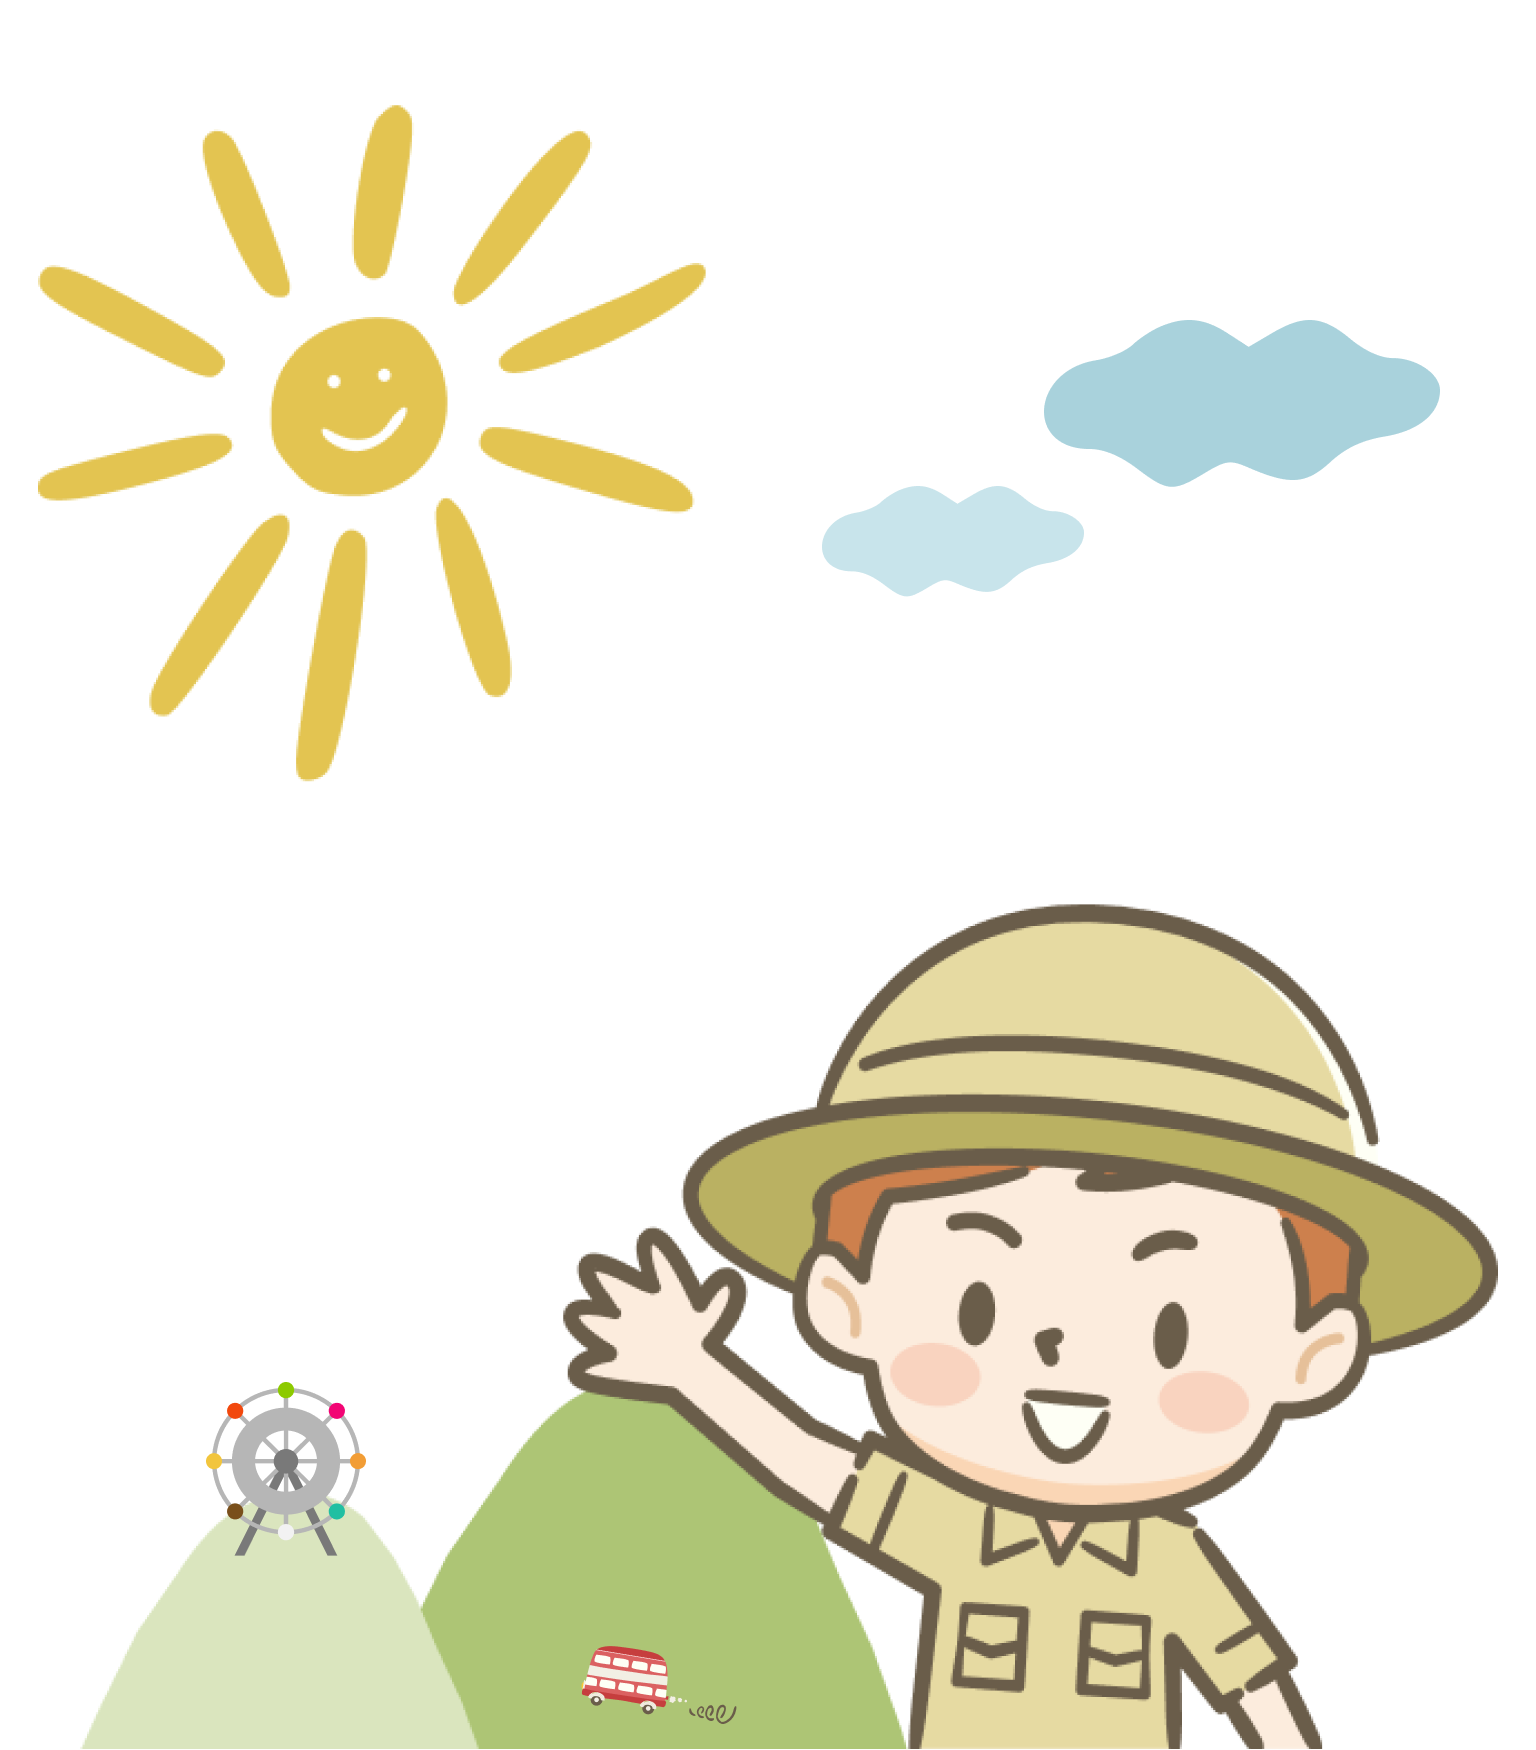
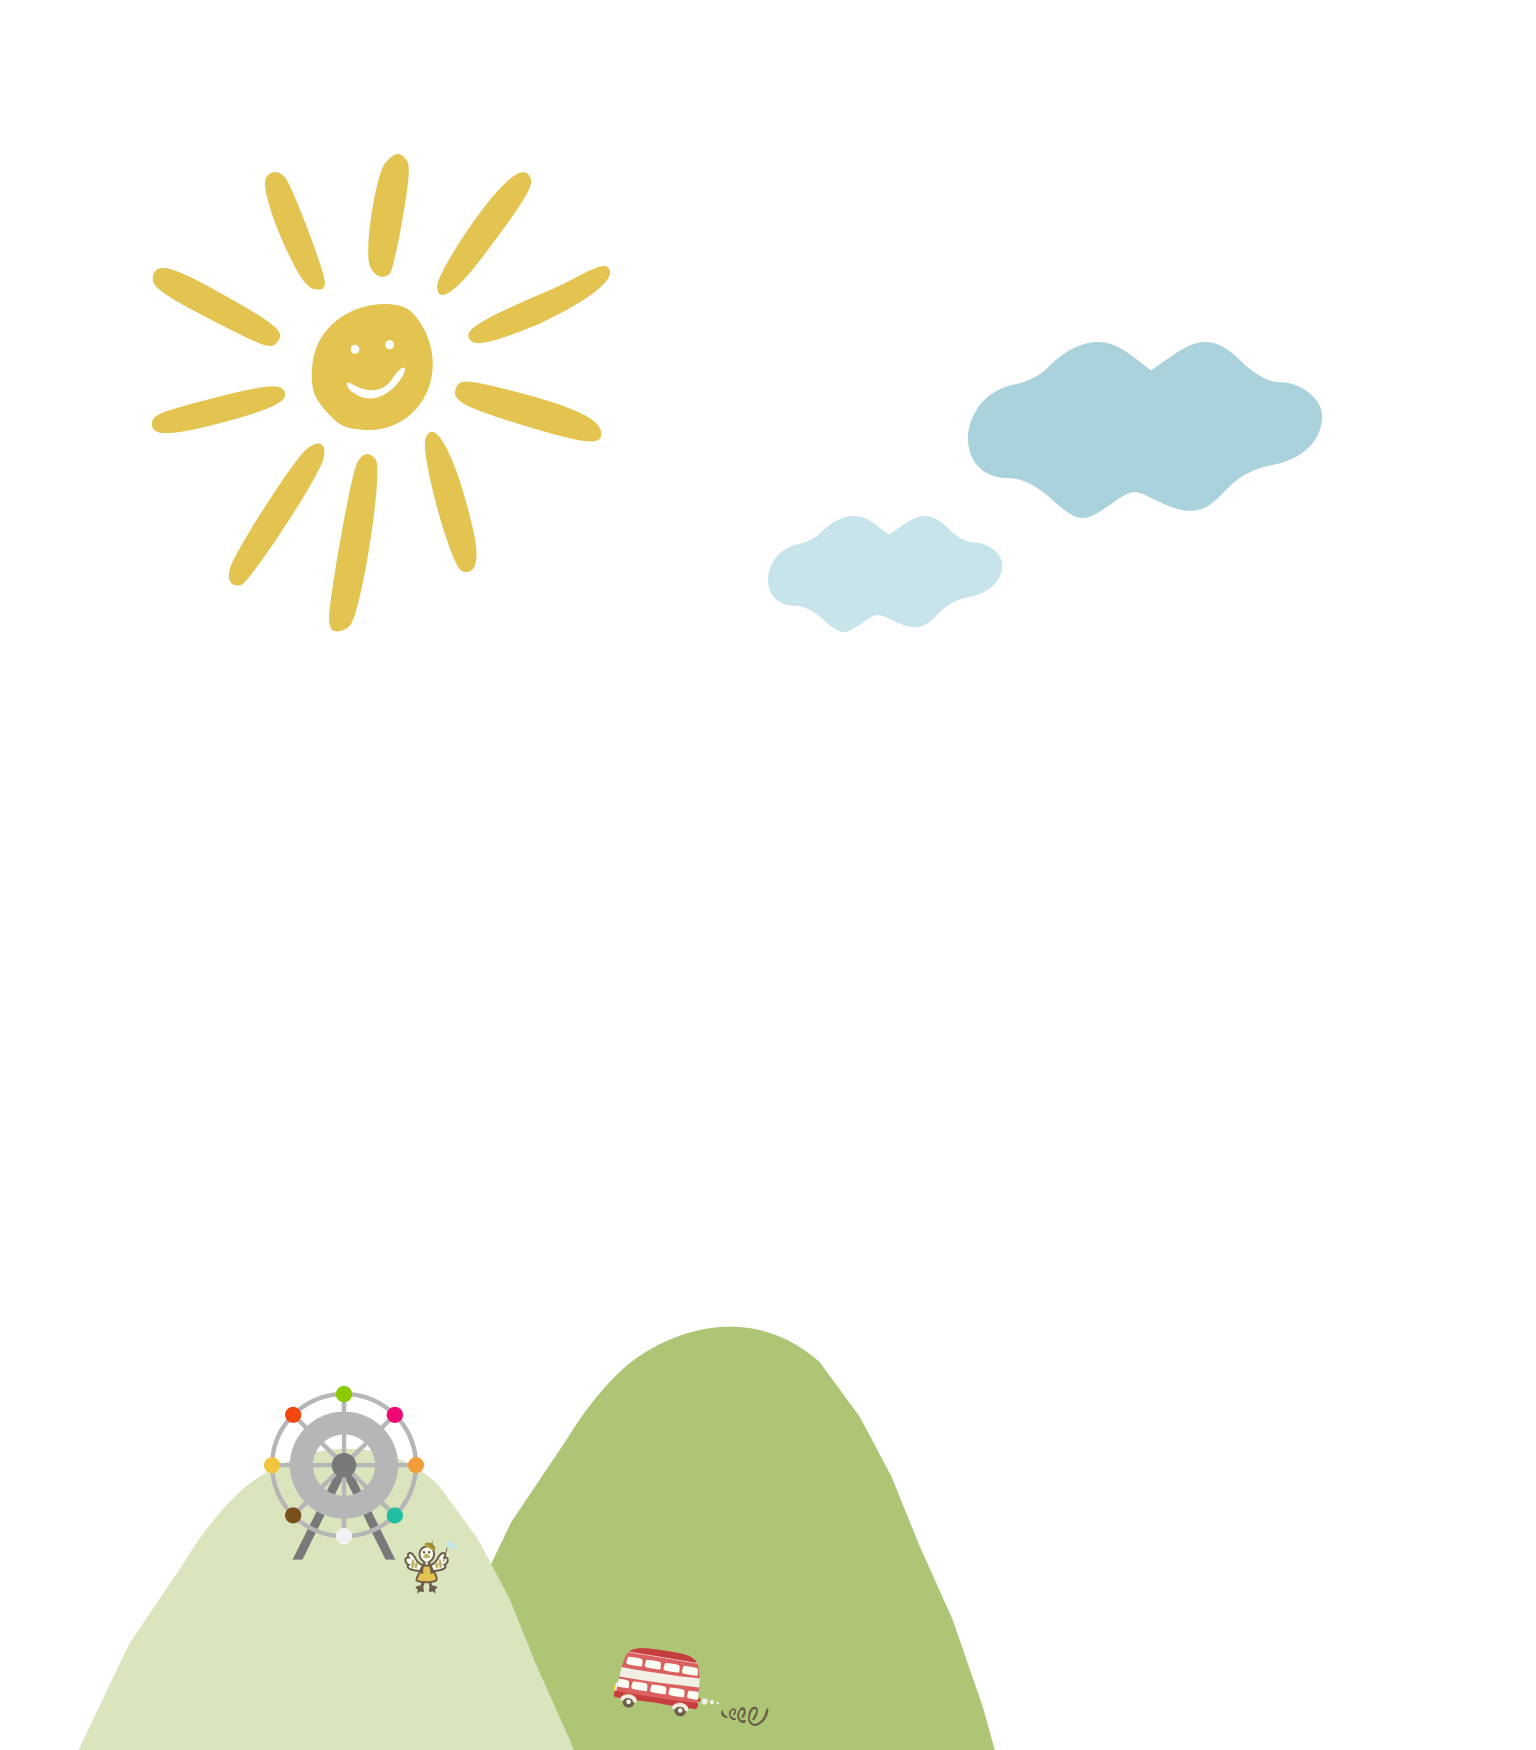
票券微調，加一點動畫

Changed region(s): [[0.125, 0.4937, 1.0, 1.0], [0.0312, 0.0617, 0.4688, 0.4629], [0.5, 0.1851, 0.9375, 0.3703]]

diff --git a/src/views/TicketView.vue b/src/views/TicketView.vue
@@ -1,9 +1,10 @@
 <!-- 景點票券頁面 -->
 <template>
-    <div class="ticket">
+    <div class="ticket_page">
         <div class="ticket_banner">
             <img class="banner_xl" :src="require('@/assets/img/ticket_banner.png')" alt="banner" />
             <img class="banner_sm" :src="require('@/assets/img/ticket_banner_sm.png')" alt="banner" />
+            <img class="banner_man" :src="require('@/assets/img/layout/plan_q1-6.png')" alt="banner" />
             <h1>{{ banner.title }}</h1>
         </div>
         <Searchbar :Filter="updateDisplay" :tagTexts="tagFilter" />
@@ -31,21 +32,22 @@
         </div>
 
         <!-- 購物車清單 -->
-        <!-- <router-link to="/cart"></router-link> -->
         <div class="cart">
             <font-awesome-icon icon="fa-solid fa-cart-shopping" class="cart_toggle" @click="toggleCart" />
             <div class="numTag">{{ itemList.length }}</div>
         </div>
+        <!-- 付款明細 -->
         <div class="cart_sidebar" v-show="togglePage">
             <h2>付款明細</h2>
-            <!-- 購買內容 -->
+            <!-- 購物明細 -->
             <div class="item">
                 <div class="details" v-for="(item, index) in itemList" :key="item.id">
+                    <!-- 標題&垃圾桶 -->
                     <div class="title">
                         {{ item.Name }}
                         <font-awesome-icon icon="fa-solid fa-trash-can" class="cancel" @click="cancel(index)" title="刪除" />
                     </div>
-
+                    <!-- 成人票券項目 -->
                     <div class="ticket_adult">
                         <label for="count_adult">
                             <p class="name">全票&nbsp;</p>
@@ -61,6 +63,7 @@
                             </option>
                         </select>
                     </div>
+                    <!-- 優惠票券項目 -->
                     <div class="ticket_ex">
                         <label for="count_ex">
                             <p class="name">優待票&nbsp;</p>
@@ -74,7 +77,7 @@
                             </option>
                         </select>
                     </div>
-
+                    <!-- 小計 -->
                     <div class="amount">
                         小計&nbsp;
                         <span>NT$ {{ item.subtotal }}</span>
@@ -84,11 +87,11 @@
             <!-- 票券總計 -->
             <div class="total">
                 <p>({{ itemList.length }}項票券) 總計</p>
-                <p>
-                    NT$&nbsp;
+                <p> NT$&nbsp;
                     <span class="total-price"> {{ totalPrice }} </span>
                     元
                 </p>
+                <!-- 結帳按鈕，跳轉至購物車 -->
                 <router-link to="/cart"><button class="btn">結帳</button></router-link>
             </div>
             <div class="close" @click="toggleCart">close</div>
@@ -211,8 +214,6 @@ export default {
         this.TotalPrice();
     },
 };
-
-
 </script>
 <style lang="scss">
 @import "@/assets/scss/baseAndMixin.scss";

diff --git a/src/views/TicketInfo.vue b/src/views/TicketInfo.vue
@@ -1,11 +1,13 @@
 <!-- 單一票券的內容區塊 -->
 <template>
     <div class="ticket_info_page">
+        <!-- 票券造型呈現，768以下無造型 -->
         <TicketSingleCard :ticketPhoto="img" :ticketTitle="Name" :ticketLocation="location" :ticketTags="tag"
             :ticketDetails="ticket_details" :showAddr="true" :ticketAddr="ticket_addr" :ticketAddrLink="ticket_addr_link"
             :discountTag="discount" />
         <!-- 票券資訊區 -->
         <div class="ticket_info">
+            <!-- 內容描述 -->
             <div class="ticket_desc">
                 <h3>票券描述</h3>
                 <ol class="content">
@@ -16,9 +18,11 @@
                     <li>5歲以下孩童免購票。</li>
                 </ol>
             </div>
+            <!-- 選擇門票數量 -->
             <div class="ticket_select">
                 <h3>選擇門票數量</h3>
                 <div class="ticket_item">
+                    <!-- 成人票項目 -->
                     <div class="ticket_adult">
                         <select name="ticket_count_adult" class="count_adult" v-model="count_adult"
                             @change="subTotalPrice()">
@@ -37,6 +41,7 @@
                             </div>
                         </label>
                     </div>
+                    <!-- 優惠票項目 -->
                     <div class="ticket_ex">
                         <select name="ticket_count_ex" class="count_ex" v-model="count_ex" @change="subTotalPrice()">
                             <option value="0" selected>0</option>
@@ -64,15 +69,15 @@
                         全票 (NT$ {{ price_adultF }} / 張) x {{ count_adult
                         }}<span>NT$ {{ price_adultF * count_adult }}</span>
                     </p>
-
                     <p>
                         半票 (NT$ {{ price_exF }} / 張) x {{ count_ex
                         }}<span>NT$ {{ price_exF * count_ex }}</span>
                     </p>
-
+                    <!-- 總計 -->
                     <p class="total">
                         總計 <span>NT${{ subtotal }}</span>
                     </p>
+                    <!-- 購物車&購買按鈕 -->
                     <div class="buy_btn">
                         <button class="btn">加入購物車</button>
                         <router-link to="/cart"><button class="btn">直接購買</button></router-link>

diff --git a/src/assets/scss/page/_ticketview.scss b/src/assets/scss/page/_ticketview.scss
@@ -1,10 +1,11 @@
 #app {
     background: $bgColor_tint;
 }
-.ticket {
+.ticket_page {
     .ticket_banner {
         width: 100%;
         position: relative;
+        overflow: hidden;
         .banner_xl {
             display: none;
         }
@@ -12,6 +13,40 @@
             @include width($sm) {
             }
         }
+        .banner_man{
+            position: absolute;
+            right: 0;
+            bottom: -330px;
+            animation: appear 3.5s both;
+        }
+        @keyframes appear {
+            0% {
+                transform: translateY(0%) rotate(0deg);
+            }
+            20%{
+                transform: translateY(-50%) rotate(0deg);
+            }
+            40%{
+                transform: translateY(-100%) rotate(10deg);
+            }
+            70%{
+                transform: translateY(-100%) rotate(-10deg);
+            }
+            100% {
+                transform: translateY(-100%) rotate(0deg);
+            }
+        }
+        // @keyframes rotate {
+        //     0% {
+        //         transform: rotate(-10deg);
+        //     }
+        //     50% {
+        //         transform: rotate(0deg);
+        //     }
+        //     100% {
+        //         transform: rotate(10deg);
+        //     }
+        // }
         h1 {
             position: absolute;
             top: 42%;
@@ -69,6 +104,7 @@
             }
         }
     }
+    //底部頁數
     .page_link {
         display: flex;
         justify-content: center;
@@ -225,10 +261,12 @@
     }
 }
 @media all and (min-width: $xl) {
-    .ticket {
+    .ticket_page {
         .ticket_banner {
             width: 100%;
+            max-width: 1200px;
             height: 400px;
+            margin: auto;
             .banner_xl {
                 display: block;
                 width: 1200px;
@@ -237,6 +275,9 @@
             .banner_sm {
                 display: none;
             }
+            // .banner_man{
+            //      display: none;
+            // }
             h1 {
                 top: 170px;
                 left: 0;

diff --git a/src/assets/scss/layout/ticketsingle.scss b/src/assets/scss/layout/ticketsingle.scss
@@ -23,7 +23,7 @@
         margin: $sp3 auto;
         @media (min-width: $md) {
             width: 100%;
-            max-width: 305px;
+            max-width: 300px;
             height: 100%;
             margin: 0 $sp6;
         }
@@ -33,6 +33,7 @@
             margin: 0 $sp9;
         }
     }
+    // 票券內文
     .ticket_text {
         width: 80%;
         display: flex;
@@ -60,6 +61,7 @@
                 @include xl_h3;
             }
         }
+        // 地區&標籤
         .ticket_location {
             display: inline-block;
             color: $textColor_tint;
@@ -80,12 +82,13 @@
                 letter-spacing: 0.32px;
             }
         }
+        // 介紹
         .ticket_details {
             line-height: 25px;
             margin: $sp2 0;
             color: $textColor_default;
             @media (min-width: $md) {
-                line-height: 25px;
+                line-height: 20px;
                 margin: $sp1 $sp2 10px 0;
                 color: $textColor_white;
             }
@@ -94,6 +97,7 @@
                 margin: $sp2 $sp5 $sp7 0;
             }
         }
+        // 地址連結
         .ticket_addr {
             display: block;
             color: $textColor_default;
@@ -109,6 +113,7 @@
             }
         }
     }
+    // 右上角折扣標籤
     .discount_tag {
         display: none;
         @media (min-width: $md) {

diff --git a/src/views/Paysuccess.vue b/src/views/Paysuccess.vue
@@ -52,27 +52,27 @@
             bottom: 100px;
             margin: 0 auto;
             animation: shake 4s ease-in-out infinite;
+        }
 
-            @keyframes shake {
-                0% {
-                    transform: rotate(0);
-                }
+        @keyframes shake {
+            0% {
+                transform: rotate(0);
+            }
 
-                25% {
-                    transform: rotate(-10deg);
-                }
+            25% {
+                transform: rotate(-10deg);
+            }
 
-                50% {
-                    transform: rotate(10deg);
-                }
+            50% {
+                transform: rotate(10deg);
+            }
 
-                75% {
-                    transform: rotate(-10deg);
-                }
+            75% {
+                transform: rotate(-10deg);
+            }
 
-                100% {
-                    transform: rotate(0);
-                }
+            100% {
+                transform: rotate(0);
             }
         }
 

diff --git a/src/assets/scss/page/_ticketinfo.scss b/src/assets/scss/page/_ticketinfo.scss
@@ -42,6 +42,7 @@
                 font-size: 14px;
             }
         }
+        // 按鈕(手機版用)
         .buy_btn_phone {
             margin: auto;
             text-align: center;
